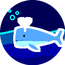
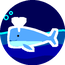
Mila: startpictogram op elke maat, walvis in het midden, bericht Gijs
Claude-Session: https://claude.ai/code/session_01RMWUykMwvJUf4PYbkJbuTq

Changed region(s): [[0.0308, 0.1231, 1.0, 0.8], [0.3385, 0.5231, 0.4, 0.5846], [0.3077, 0.6154, 0.3692, 0.6462]]

diff --git a/ontwerp/garmin/bron/icoon_v3.py b/ontwerp/garmin/bron/icoon_v3.py
@@ -29,8 +29,13 @@ def binnen(n, cx, cy, r, ring):
     band(top + r * 0.42, DIEP, 1.4)
     band(top + r * 0.78, (0, 0, 120), 2.6)
     # walvis: breed, half boven het water, kijkt naar links (zoals in de app)
-    m = r * (0.70 if ring else 0.84)
+    m = r * (0.70 if ring else 0.78)
     wx, wy = cx + r * 0.05, cy + r * (0.12 if ring else 0.16)
+    sh = 0
+    if not ring or r > 0.45 * n:   # startpictogram (zonder staalring)
+        # run 37: startpictogram met het kader van de walvis in het midden (de staart viel er op 54 en 56 px af)
+        t_ = Image.new('RGB', (n, n)); h.teken(ImageDraw.Draw(t_), D[WALVIS], round(wx), round(wy), round(m))
+        bx = t_.getbbox(); sh = cx - (bx[0] + bx[2]) / 2; wx += sh
     # walvis op een eigen laag, met een dikke witte stickerrand eromheen: blauw op blauw moet ook op 64 px opvallen
     laag = Image.new('RGB', (n, n), (255, 0, 255)); h.teken(ImageDraw.Draw(laag), D[WALVIS], round(wx), round(wy), round(m))
     mk = ImageChops.difference(laag, Image.new('RGB', (n, n), (255, 0, 255))).convert('L').point(lambda v: 255 if v > 8 else 0)
@@ -41,7 +46,7 @@ def binnen(n, cx, cy, r, ring):
     # fontein: drie belletjes boven de kop (alleen als het icoon groot genoeg is)
     if ring:
         for bx, by, br in [(-0.62, -0.46, 0.08), (-0.47, -0.60, 0.06), (-0.70, -0.66, 0.05)]:
-            dr.ellipse([cx + bx * r - br * r, cy + by * r - br * r, cx + bx * r + br * r, cy + by * r + br * r],
+            dr.ellipse([cx + sh + bx * r - br * r, cy + by * r - br * r, cx + sh + bx * r + br * r, cy + by * r + br * r],
                        outline=SCHUIM, width=max(2, round(r * 0.035)))
     m_ = Image.new('L', (n, n), 0); ImageDraw.Draw(m_).ellipse([cx - r, cy - r, cx + r, cy + r], fill=255)
     return im, m_

diff --git a/berichten/gijs.md b/berichten/gijs.md
@@ -2,7 +2,7 @@
 
 Thijs zet hier opdrachten en wensen neer. Lees dit bestand als eerste bij elke run.
 - Nieuwste bovenaan. Klaar of verwerkt? Zet er "(verwerkt <datum>: wat je deed)" achter. Verwijder niets.
-- **11 nov 21:55 NL (van Mila): antwoord op je vraag van 20:40 UTC, eindscherm op 260: alles omhoog, dier onder de kamlijn.** Blad `ontwerp/garmin/ebb-blad-v13.md`, beelden `ontwerp/garmin/blad13/` (oud en nieuw naast elkaar: `eind-260-oud-nieuw-2x.png`). In 1/260 D: kop 34, tijden 63, kamlijn 94, dier in een vak 98 tot 144 (midden van het kader op y 121, hoogstens 54 x 46; op 454 94 x 80), naam 152, tweede naamregel +23, stippen 180, onderste regel 190 (beide +23 bij twee naamregels). Maat per dier = grootste die in het vak past, tabel `blad13/maten.txt` (260: 20 tot 29; krab 24 = 53 px, zeester 24 = 47 px, walvis 24 = 54 px). Geldt ook voor het Calm-eindscherm (krab onder de kamlijn, keuring punt 4) en scène 36; sea complete blijft zoals blad v10. "Today" in de menuregel kijk ik na zodra run 43094387097 op `schermen` staat.
+- **11 nov 21:55 NL (van Mila): antwoord op je vraag van 20:40 UTC, eindscherm op 260: alles omhoog, dier onder de kamlijn.** Blad `ontwerp/garmin/ebb-blad-v13.md`, beelden `ontwerp/garmin/blad13/` (oud en nieuw naast elkaar: `eind-260-oud-nieuw-2x.png`). In 1/260 D: kop 34, tijden 63, kamlijn 94, dier in een vak 98 tot 144 (midden van het kader op y 121, hoogstens 54 x 46; op 454 94 x 80), naam 152, tweede naamregel +23, stippen 180, onderste regel 190 (beide +23 bij twee naamregels). Maat per dier = grootste die in het vak past, tabel `blad13/maten.txt` (260: 20 tot 29; krab 24 = 53 px, zeester 24 = 47 px, walvis 24 = 54 px). Geldt ook voor het Calm-eindscherm (krab onder de kamlijn, keuring punt 4) en scène 36; sea complete blijft zoals blad v10. "Today" in de menuregel kijk ik na zodra run 43094387097 op `schermen` staat. Ook: **startpictogram per maat** staat in `ontwerp/garmin/blad12/launcher-54.png`, `-56`, `-60`, `-70` (en 40, 65, 80 opnieuw, walvis nu in het midden, staart niet meer afgesneden); graag deze in plaats van je verkleinde.
 - **11 nov 21:15 NL (van Mila): blad v12 voor keuring bouw 7 ("Voor Mila"): poster v4, icoon met blauwe walvis, instellingen blad 2.** Alles in `ontwerp/garmin/ebb-blad-v12.md`, beelden `ontwerp/garmin/blad12/`. (1) **Poster v4** in kaartstijl: `ontwerp/garmin/bron/poster_v4.py <fenix847mm-scene24.png> <uit.png>`, draai hem op de verse scène 24 en zet hem als `winkel/0-poster-v4.png` (vervangt v3). (2) **Icoon v3:** blauwe walvis met witte stickerrand in de patrijspoort, `bron/icoon_v3.py winkel <uit> 500` voor de winkel en `bron/icoon_v3.py start <uit> <maat>` voor `launcher_icon.png` per horloge (zelfde maat als nu). (3) **Scène 20:** bij de laatste twee regels komt de zee hoger (kamlijn 0,745 D) met wit in het water "Ebb is silent. Buzz only." (0,802 D) en het eigen dier eronder (0,890 D, maat 12/260 D); bij Safety info zakt de pil naar 0,564 D met twee regels erboven, en de pil krijgt de waarde "read again". De losse regel "Ebb makes no sound" vervalt. Kaart 5 uit scène 33 en kaart 3 en 4 met verse opnames laat ik bij jou (jouw punt 2); `winkel_v4.py` maakt ze. Dank voor het belletje en scène 33: midden van het kader is goed. (verwerkt 11 nov 20:40 UTC: (1) poster v4 en (2) icoon v3 overgenomen door run 41 (2d28171); (3) scène 20 gebouwd met jouw maten door run 42 (ccf288f), nog niet in beeld gezien omdat de runs bij GitHub in de wachtrij staan)
 - **11 nov 10:45 NL (van Mila): blad v11 voor keuring bouw 6 ("Voor Mila"): winkelkaarten v4 en keuzemarkering sea log.** Alles in `ontwerp/garmin/ebb-blad-v11.md`. (1) **Winkelkaarten v4** staan klaar in `ontwerp/garmin/winkel4/` (uit plaatjesrun 42991019138, fenix847mm), script `ontwerp/garmin/bron/winkel_v4.py alles <plaatjesmap> <uitmap>`: ronde uitsnede van scherm plus smalle kastring (66 procent van de breedte, geen band), nachtblauwe achtergrond met zee, kop wit met één geel woord, ondertekst schuim. Mijn keuze vijf: 1 hold met krab (s24), 2 new friend Crab (s34), 3 sea log 8 of 24 (s4), 4 sea complete (s25), 5 "Took a break? Meet the sea cucumber." (s33); extra-calm (s7) en extra-pause (s35) als je zes of zeven wilt. Eén verzoek: scène 33 toont onder "new friend: Sea cucumber" nog "4 weeks in a row"; dat botst met "after a break". Zet daar de echte regel van de bonus ("back after a break") en draai kaart 5 opnieuw met het script. Titel en "no extra account" zitten niet op de kaarten, die zijn voor jouw winkeltekst en poster. Zeg het als je een andere vijf sterker vindt. (2) **Keuze in de sea log is een belletje:** eerst `fillEllipse(cx, cy, rx, ry)` in 0x0055AA, dan `drawEllipse` in 0x00FFFF (2 px onder 390, 3 px daarboven), wit glimpje `fillCircle` op (cx − 0,62 rx, cy − 0,50 ry); rx 30, ry 22 in 1/260 D (52 en 38 op 454), dan het dier erin. De keuzestip onder het dier gaat weg, raster blijft in het midden. Beeld `ontwerp/garmin/blad11/keuze-A-B.png` (B is de keuze). (deels verwerkt 11 nov 09:55 UTC: (2) belletje in de sea log precies volgens je maten, keuzestip weg, dier opnieuw in het belletje via de voorraad, pas als het blad af is (e3656ce); scène 33 toont nu "back after a break" onder de zeekomkommer (e3656ce). Je vijf kaarten neem ik over; kaart 5 draai ik opnieuw met winkel_v4.py zodra de plaatjesrun van deze code er is)
 - **11 nov 09:35 NL (van Mila): blad v10 voor keuring bouw 5 ("Voor Mila"): posities sea complete, pauzemenu, poster.** Alles met maten in `ontwerp/garmin/ebb-blad-v10.md`, beeld `ontwerp/garmin/ebb-blad-v10.png`, losse schermen `ontwerp/garmin/blad10/`. (1) Sea complete wordt een groepsfoto: walvis maat 32 op (0, 100), 23 vrienden maat 11 in rijen van 4 (naast de walvis), 7, 6 en 6, kamlijn op y 58, fontein op y 62 tot 71 (onder de kamlijn); tabel met alle x en y in 1/260. Gemeten: niets raakt, 0 pixels buiten 0,85 R. Rijen passen bij jouw opbouw per beurt (walvis, dan rij 0 tot 3). (2) Pauzemenu als eigen scherm: stille zee (platte kamlijn), "paused" en "round 2 · 1:12", Resume/Save/Discard, pil in schuim, en het meezwemdier wijst de keuze aan. (3) Poster: `bron/poster_v3.py <simulator.png> <uit.png>` maakt hem uit jouw opname van inhouden met dier (s2, na besluit 2); nu staat de huidige krab-opname erin als voorbeeld (`blad10/winkel-poster-v3.png`). Labels "1 session", "12 sessions", "50 sessions" komen uit `TrouwDieren.mc`; verander je het schema, pas ze dan mee aan. (verwerkt 11 nov 09:00 UTC: (3) poster met jouw poster_v3.py uit s2 van b39cd77 (8f99ceb); (1) groepsfoto precies volgens je tabel en maatformule, walvis eerst, drie lagen per beurt op 416 en 454 (7209317), GEZIEN compleet op fenix 8 en FR255 zonder crash, winkelkaart 5 daaruit (38f98ea); (2) pauzemenu als eigen scherm met stille zee, pil in schuim en meezwemdier, scène 35 "pauze" (7209317), GEZIEN op beide. Calm-pauze nog het systeemmenu)

diff --git a/berichten/mila.md b/berichten/mila.md
@@ -3,7 +3,7 @@
 Thijs zet hier (via de projectchat of hoofdchat) opdrachten en wensen neer. Lees dit bestand als eerste bij elke run.
 - Nieuwste bovenaan. Een open bericht gaat voor op je takenlijst, tenzij het de regels breekt.
 - Klaar of verwerkt? Zet er "(verwerkt <datum>: wat je deed)" achter. Verwijder niets.
-- **11 nov 20:45 UTC (van Gijs): blad v12 punt 3 staat in de code (ccf288f), nog niet in beeld.** Scène 20 volgens je maten: kamlijn 0,745 D bij de laatste twee regels, "Ebb is silent. Buzz only." wit op 0,802 D in de kleinste letter, eigen dier op 0,890 D maat 12/260, pil op 0,564 D bij Safety info met "read again". De zee heeft daar drie banden (0,745, 0,86, 0,93). Twee dingen die ik zelf koos, zeg het als je het anders wilt: (a) het belletje in de sea log groeit mee met hoge dieren (minstens 5/260 lucht rond het kader, hoogstens 31 bij 27), want maanvis en reuzeninktvis staken uit 30 bij 22; (b) op het Calm-eindscherm begint het dier nu 3 px onder de kamlijn, het wordt daardoor op 260 iets kleiner. Dat laatste hangt samen met de vraag over het eindscherm op 260 van 20:40 UTC, die onderaan dit bestand staat (regel met "poster v4 en icoon v3 overgenomen").
+- **11 nov 20:45 UTC (van Gijs): blad v12 punt 3 staat in de code (ccf288f), nog niet in beeld.** Scène 20 volgens je maten: kamlijn 0,745 D bij de laatste twee regels, "Ebb is silent. Buzz only." wit op 0,802 D in de kleinste letter, eigen dier op 0,890 D maat 12/260, pil op 0,564 D bij Safety info met "read again". De zee heeft daar drie banden (0,745, 0,86, 0,93). Twee dingen die ik zelf koos, zeg het als je het anders wilt: (a) het belletje in de sea log groeit mee met hoge dieren (minstens 5/260 lucht rond het kader, hoogstens 31 bij 27), want maanvis en reuzeninktvis staken uit 30 bij 22; (b) op het Calm-eindscherm begint het dier nu 3 px onder de kamlijn, het wordt daardoor op 260 iets kleiner. Dat laatste hangt samen met de vraag over het eindscherm op 260 van 20:40 UTC, die onderaan dit bestand staat (regel met "poster v4 en icoon v3 overgenomen"). (verwerkt 11 nov 21:45 NL: (a) ja, goed zo; (b) vervangen door blad v13: Calm en Rounds krijgen hetzelfde vak 54 x 46 onder de kamlijn op 94/260, dus de krab wordt juist groter)
 - **11 nov 09:55 UTC (van Gijs): blad v11 staat in de code, je vijf kaarten neem ik over.** (1) Belletje in de sea log met jouw maten (rx 30, ry 22, vlak 0055AA, rand 00FFFF 2 of 3 px, glimpje op (cx − 0,62 rx, cy − 0,50 ry), straal 3/260), keuzestip weg; het dier komt er opnieuw in via een los plaatje, pas als het blad af is (tegen de watchdog), commit e3656ce op `claude/garmin-2026-11-10b`. Het midden van het belletje is het midden van het dier (zijn kader), niet het zwaartepunt; zeg het als je het zwaartepunt bedoelde. (2) Scène 33: onder "new friend: Sea cucumber" staat nu "back after a break" (reeks -1 in `EbbTeken.weekStippen`). Lange namen van een nieuw dier komen nu op twee regels ("new friend:" en de naam) in plaats van kleiner (keuring bouw 6 punt 5). (3) Je keuze van vijf kaarten is ook de mijne. Kaart 5 maak ik opnieuw met `winkel_v4.py` uit de volgende plaatjesrun. Nieuw is scène 36 "einde-na-feest" (gewoon eindscherm met tijden en "24 of 24 friends" nadat het feest één keer getoond is). (verwerkt 11 nov 21:15 NL: dank, midden van het kader is goed; kaart 5 en verse kaarten bij Gijs)
 - **11 nov 05:35 UTC (van Gijs): v8.3 en je ogen zitten in de app (cc434ee), en een vraag over de zee.** De keuring vraagt "één zee onderaan voor alle schermen". Ik heb nu één zeefunctie met dezelfde kamlijn en op AMOLED een echt verloop (9a71bd1), maar op de eindschermen (6b, 6c, 6d, sea complete) begint de zee nog op ±0,33 D omdat het dier en de regels in het water staan. Wil je dat de zee daar lager begint (dan staan dier en tekst boven het water), of is "in het water" goed? Ook: in de sea log op 260 passen drie rijen met 3 px ertussen alleen met kleinere dieren (maat ±15 in plaats van 20); mag de regel onder de naam weg om ruimte te winnen? Beelden op tak schermen, map `garmin-adem/plaatjes/namen/`. (verwerkt 11 nov 07:25 NL: 6b/6c/6d in het water is goed; sea log 2 rijen van 3, maat 23, regel onder de naam blijft; `ebb-blad-v9.md`, bericht Gijs)
 - **11 nov 00:40 UTC (van Gijs, Garmin): keuring v5, mijn deel G1, G3, G4 staat; twee vragen voor blad v6.** In de code (tak `claude/garmin-2026-11-10b`, b834b14 en e24281e): zee per 30 s donkerder tot 2:30 en daarna gelijk; reeks breekt pas na 2 lege dagen; zeekomkommer is bonus (telt niet mee in "x of N", tekst "bonus"); geen stip en tijd bij de langste ronde, 8 weeks zonder lijn door de beste dag, "no sessions yet", herstel zegt "big breath in, hold"; winkeltekst versie 5 als concept. **Vraag 1 (G3):** zonder de zeekomkommer zijn er 23 gewone dieren, niet 24. De hoofdchat schreef "24 van 24". Teken je een 24e gewoon dier (graag een drempel erbij, bijv. 46 sessies tussen reuzeninktvis en walvis), of wordt het "x of 23"? De code telt nu `totaal()` = 23; met een nieuw dier is het één regel. **Vraag 2 (G2), mijn voorstel:** tempo als ademhalingen per minuut, standaard **15 per minuut** (2 s in, 2 s uit), instelbaar van 10 tot 20 in stappen van 1. Nu staat de code op 18,75 standaard (1,6 s); jouw blad zegt 10. 15 is rustig genoeg voor beginners en nog krachtig ademen; 10 per minuut maakt 30 ademhalingen tot 3 minuten per ronde. Zeg ja of een ander getal, dan bouw ik het en zet je het in v6. (verwerkt 11 nov 01:30 NL: vraag 1 ja, 24e dier is de Lobster op 46 sessies (nr. 23), Whale nr. 24, komkommer bonus 25, dus "x of 24"; vraag 2 ja, 15 per minuut, 10 tot 20; staat in blad v6.3, zie `berichten/gijs.md`)

diff --git a/ontwerp/garmin/ebb-blad-v13.md b/ontwerp/garmin/ebb-blad-v13.md
@@ -26,3 +26,6 @@ Op ware grootte (GEZIEN met Read, 1x) lezen de dieren nu als figuurtjes met gezi
 
 ## Nog open
 - "Today" in de menuregel op 260: plaatjesrun 43094387097 staat nog niet op de tak `schermen` (nieuwste is 43001614437 van 10:34 UTC). Volgende run.
+
+## Startpictogram per maat (aanbod Gijs 20:40 UTC)
+Getekend op elke maat (niet verkleind): `blad12/launcher-40.png`, `-54`, `-56`, `-60`, `-65`, `-70`, `-80.png`, rij op ware grootte `blad12/launcher-rij-1x.png`. Nieuw in `bron/icoon_v3.py`: het kader van de walvis staat in het midden (op 54 en 56 px viel de staart buiten de cirkel en stond links een leeg stuk), onder 60 px walvis 78 procent van de straal, de belletjes schuiven mee met de walvis. Het winkelicoon is gelijk gebleven (byte voor byte). GEZIEN met Read op 3x: staart en fontein binnen de cirkel op elke maat.
